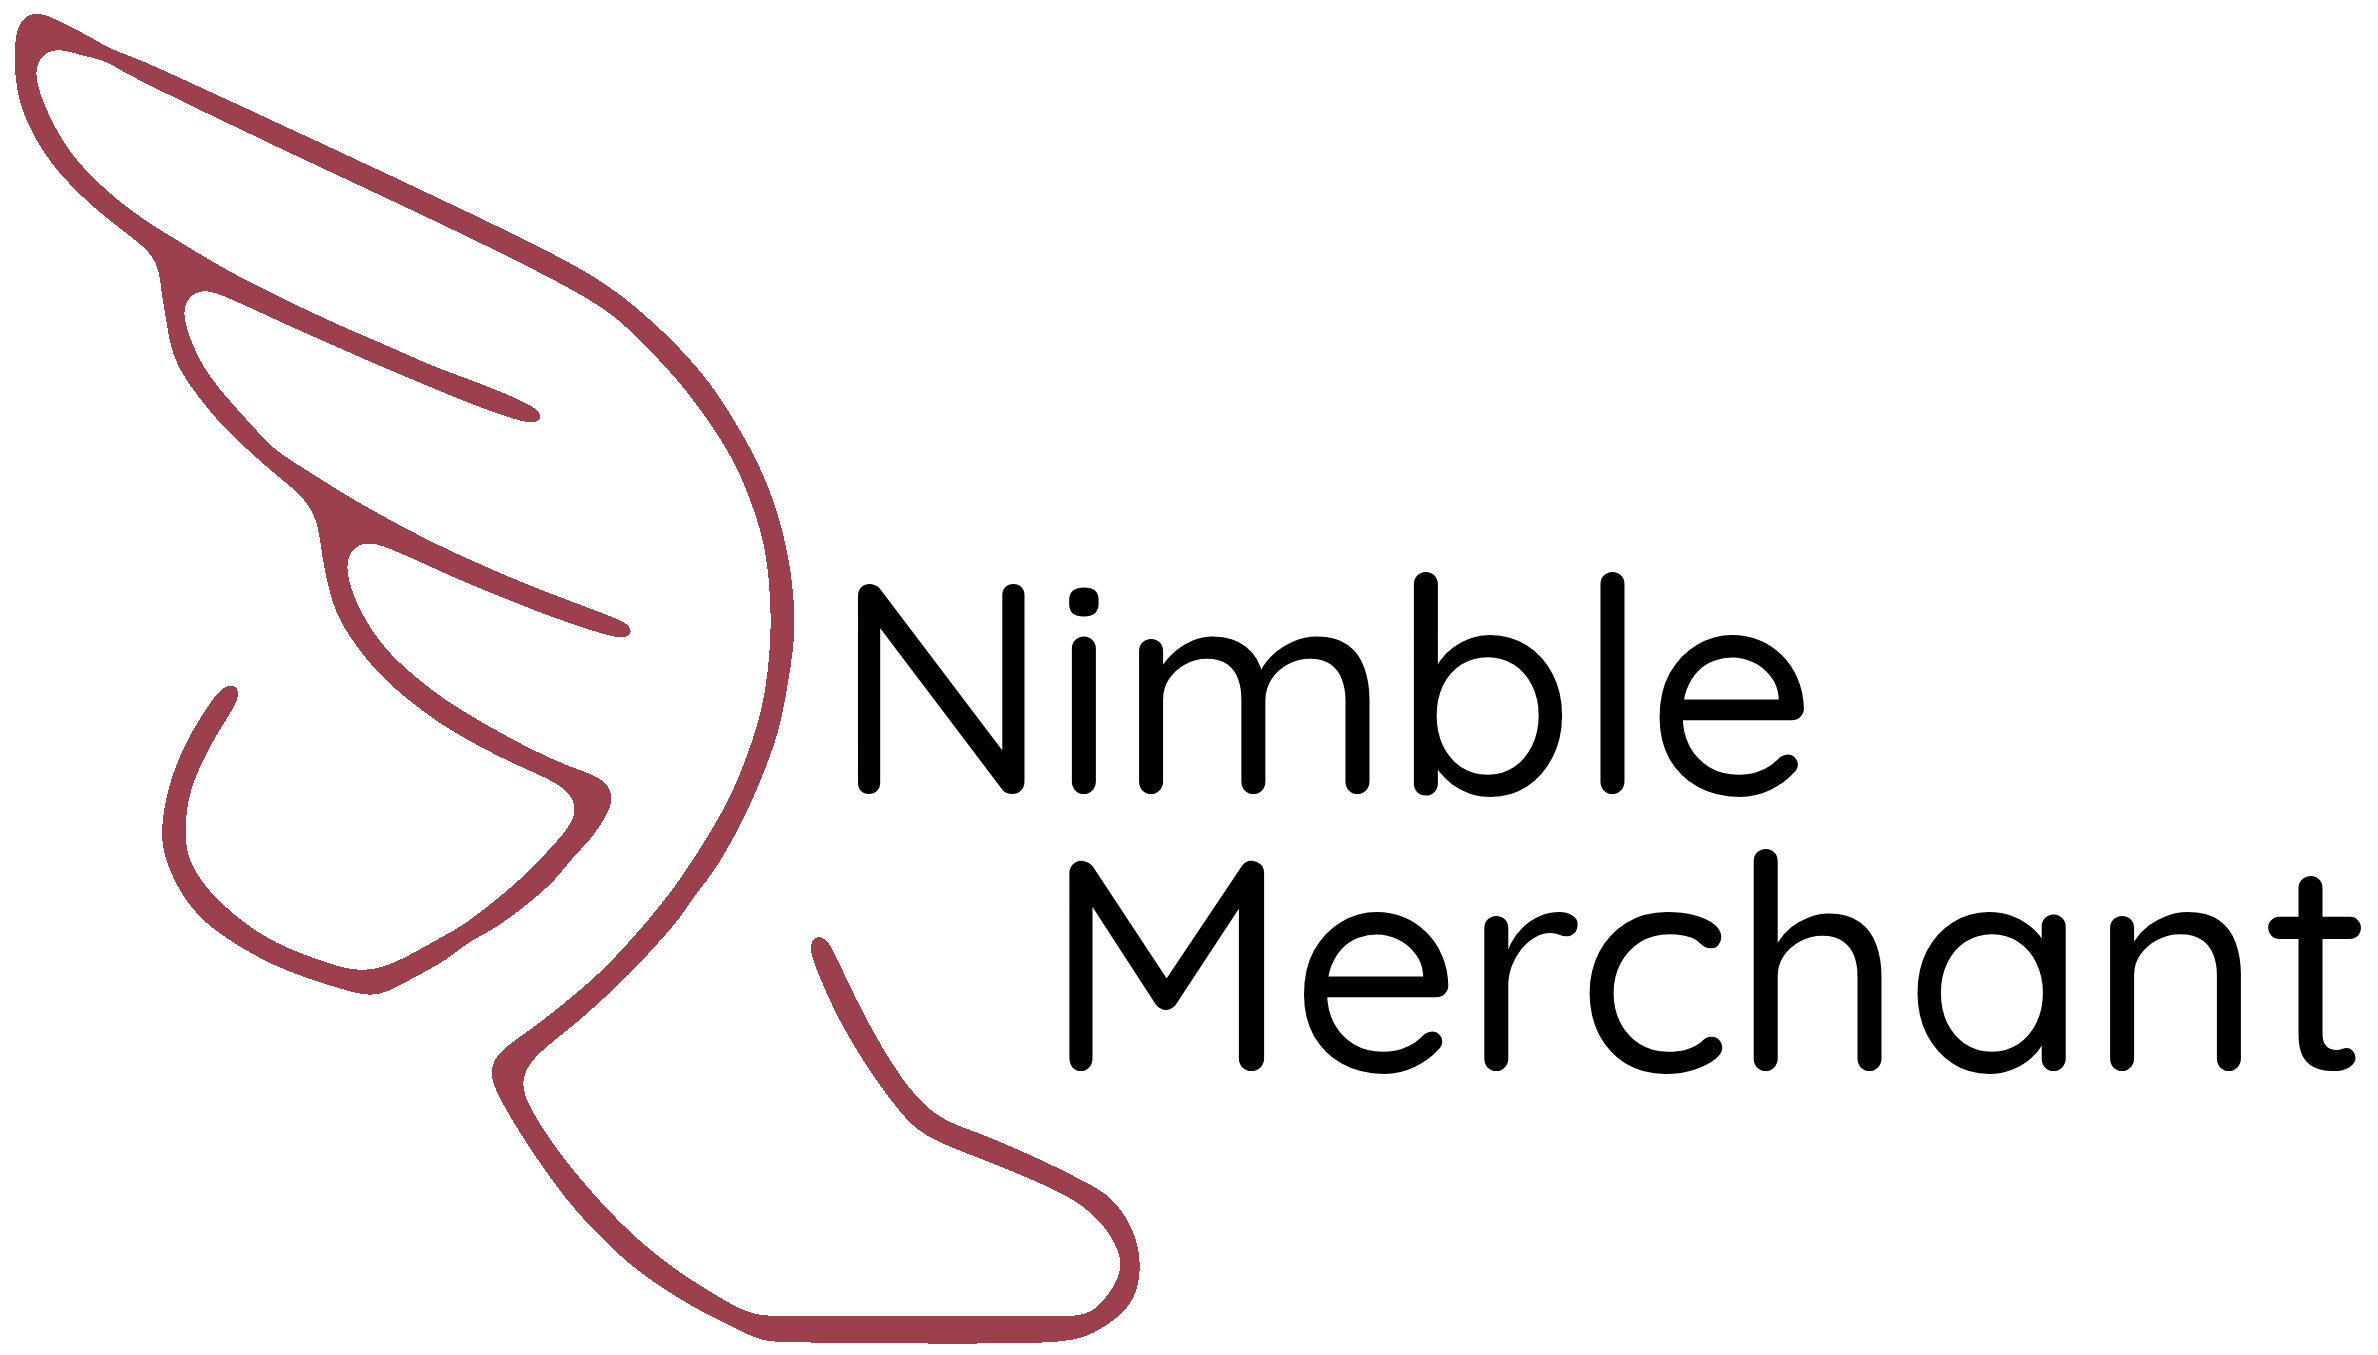
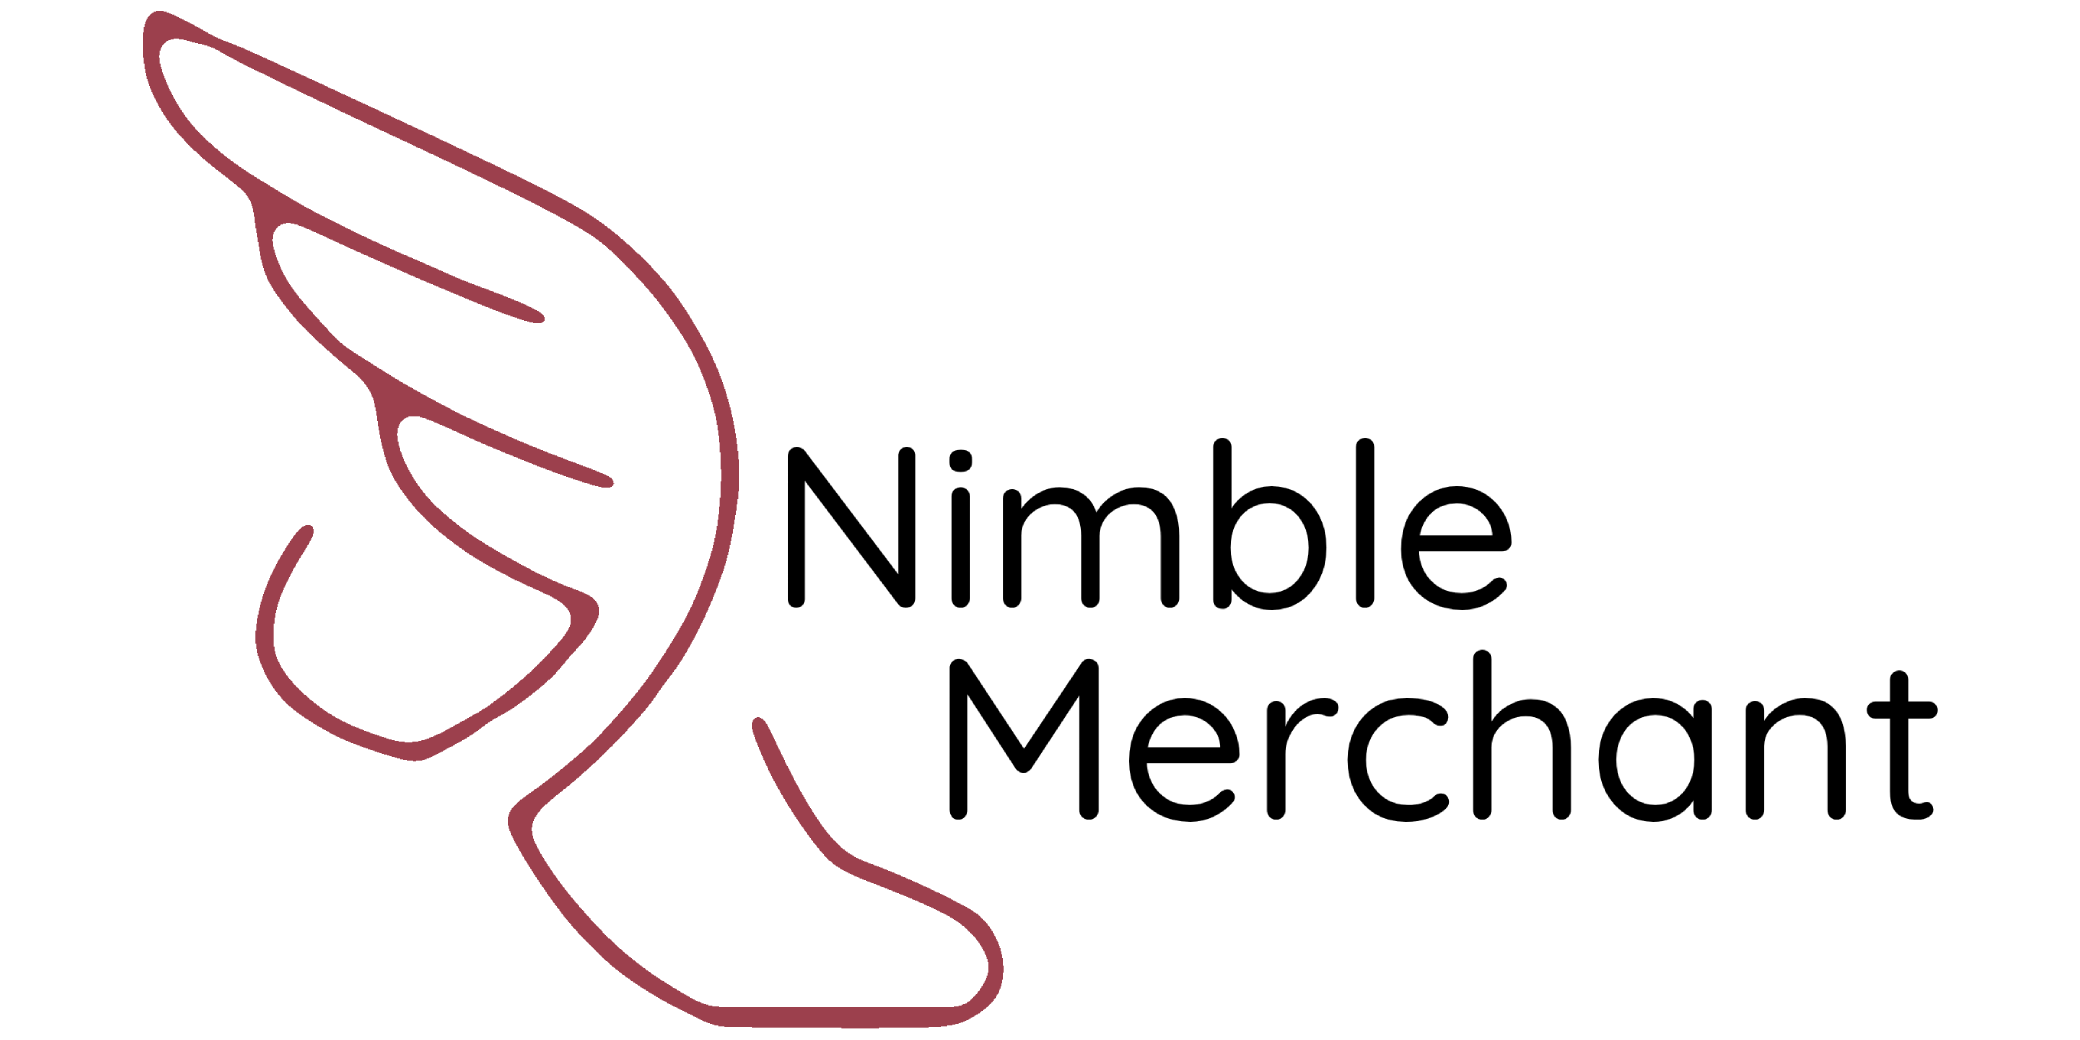
Updating readme branding

diff --git a/README.md b/README.md
@@ -1,7 +1,7 @@
 <div align="center">
 
 # NimbleMerchant POS System
-![Nimble Merchant Logo](assets/images/nimble.jpg)
+![Nimble Merchant Logo](assets/images/NimbleMerchant.jpg)
 
 </div>
 
